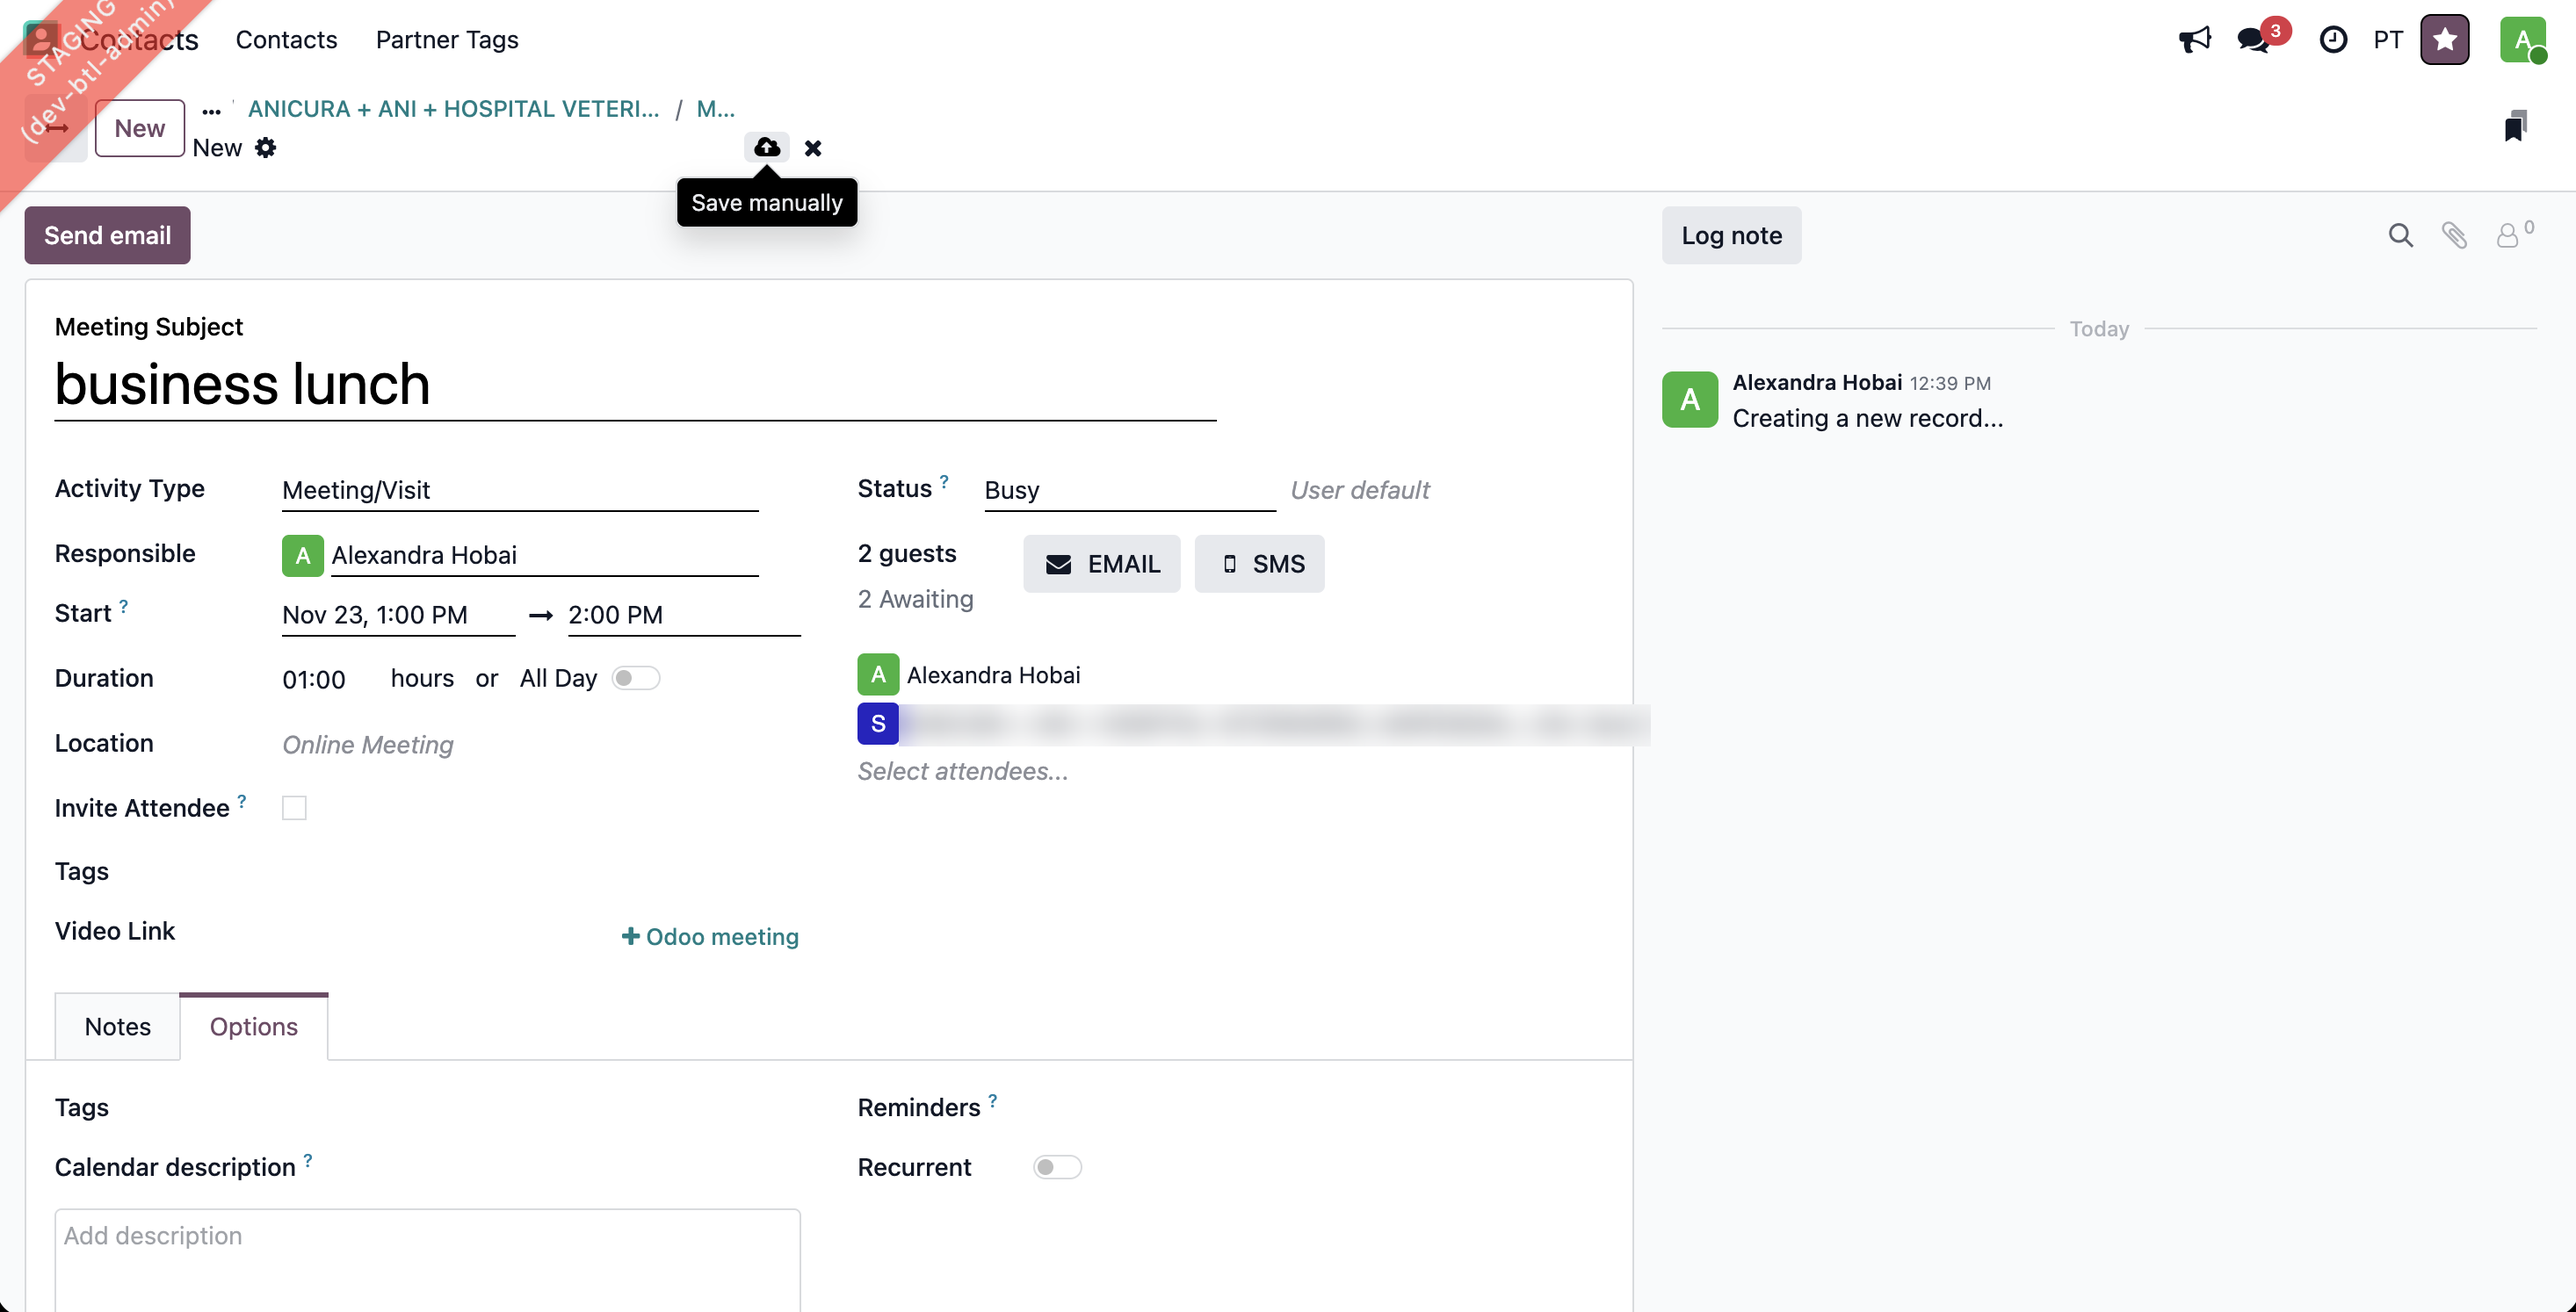
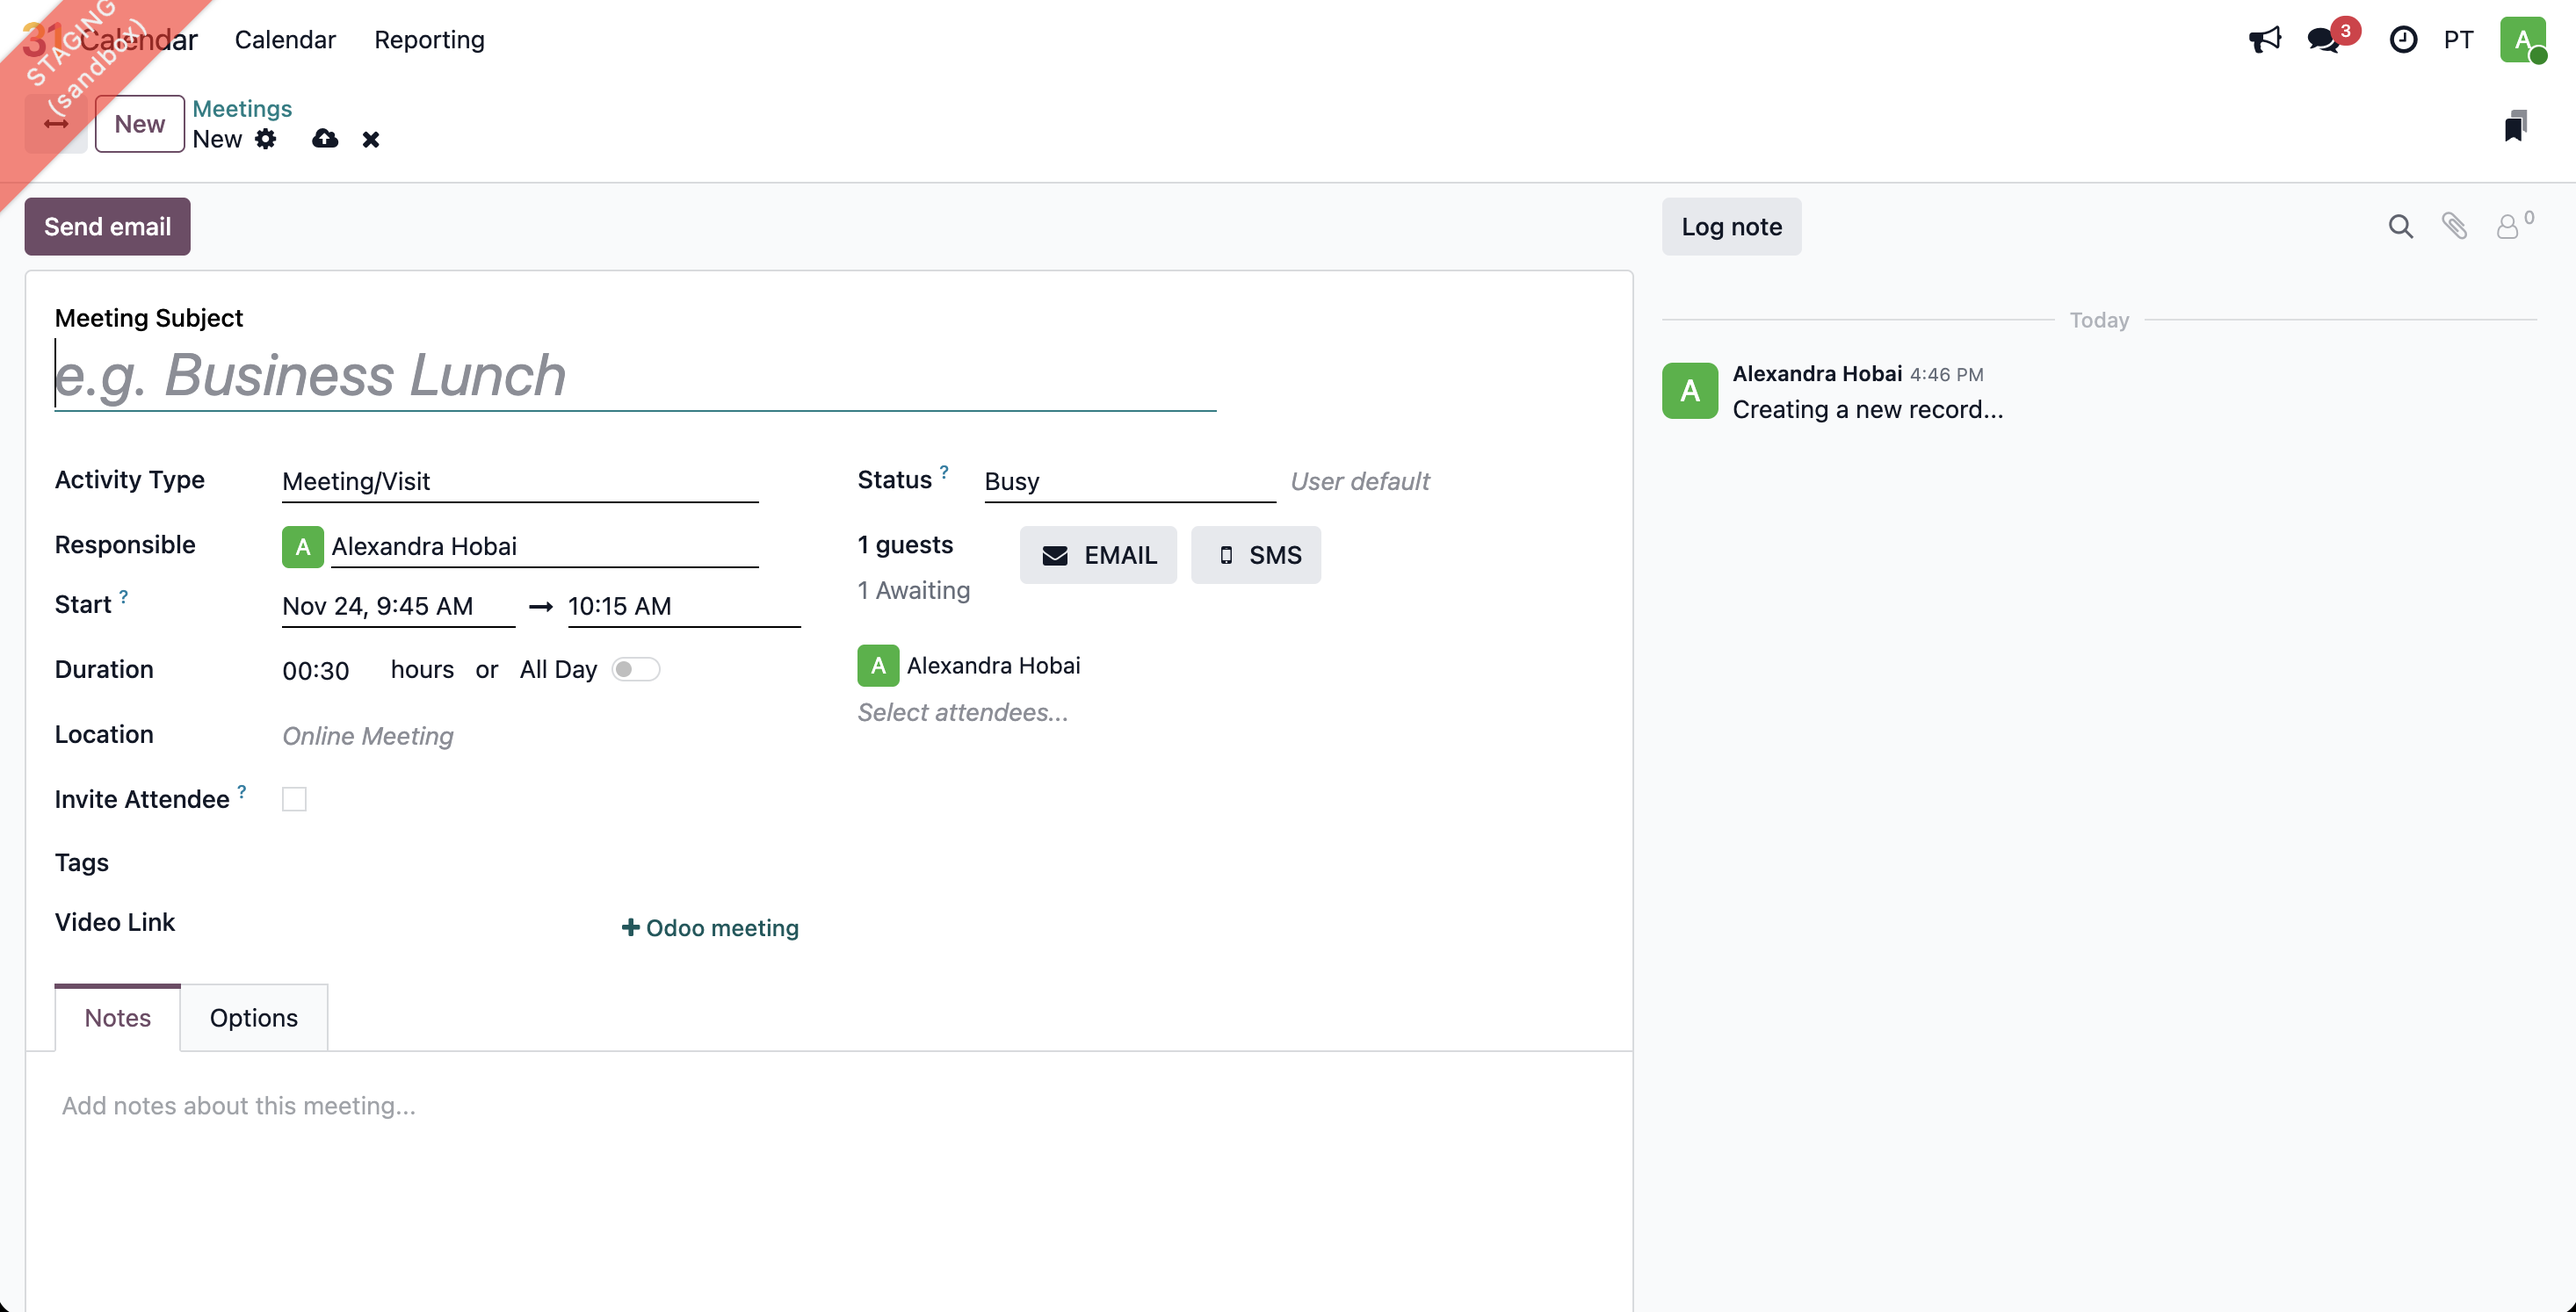
Use Calendar screenshots for steps 7 and 8
Steps 7 (Options tab, Calendar description) and 8 (Save manually, Send
email) now show the full meeting form opened from the Calendar
(breadcrumb "Meetings / New") instead of the contact path. Hotspots and
thumbnails updated.

Claude-Session: https://claude.ai/code/session_01UKdqYuC1qmKpqweSDBfGLV

diff --git a/index.html b/index.html
@@ -421,8 +421,8 @@
     { file: "04-activity-types",          spots: [[20.0, 36.6, 11.2, 38.6]] },
     { file: "03-new-event-dialog",        spots: [[19.6, 41.6, 30.0, 3.8]] },
     { file: "03-new-event-dialog",        spots: [[22.4, 66.8, 8.0, 4.8]] },
-    { file: "07-options-description",     spots: [[6.86, 61.24, 5.87, 5.42], [1.98, 73.03, 29.2, 21.29]] },
-    { file: "08-save-or-email",           spots: [[28.79, 9.71, 2.01, 3.21], [0.89, 15.6, 6.58, 4.69]] },
+    { file: "07-options-description",     spots: [[7.0, 61.4, 5.73, 5.1], [1.7, 73.2, 29.7, 21.2]] },
+    { file: "08-save-or-email",           spots: [[11.8, 9.0, 1.8, 3.2], [0.95, 15.1, 6.4, 4.3]] },
     { file: "09-calendar-check",          spots: [[4.2, 73.49, 10.2, 5.15]] },
     /* Extra view for "Plan a follow-up": the chatter's Activity button and the activities (clock) menu */
     { file: "contact-chatter-activity",   spots: [[70.15, 15.0, 5.0, 4.7], [89.85, 0.9, 1.75, 3.6]] }
